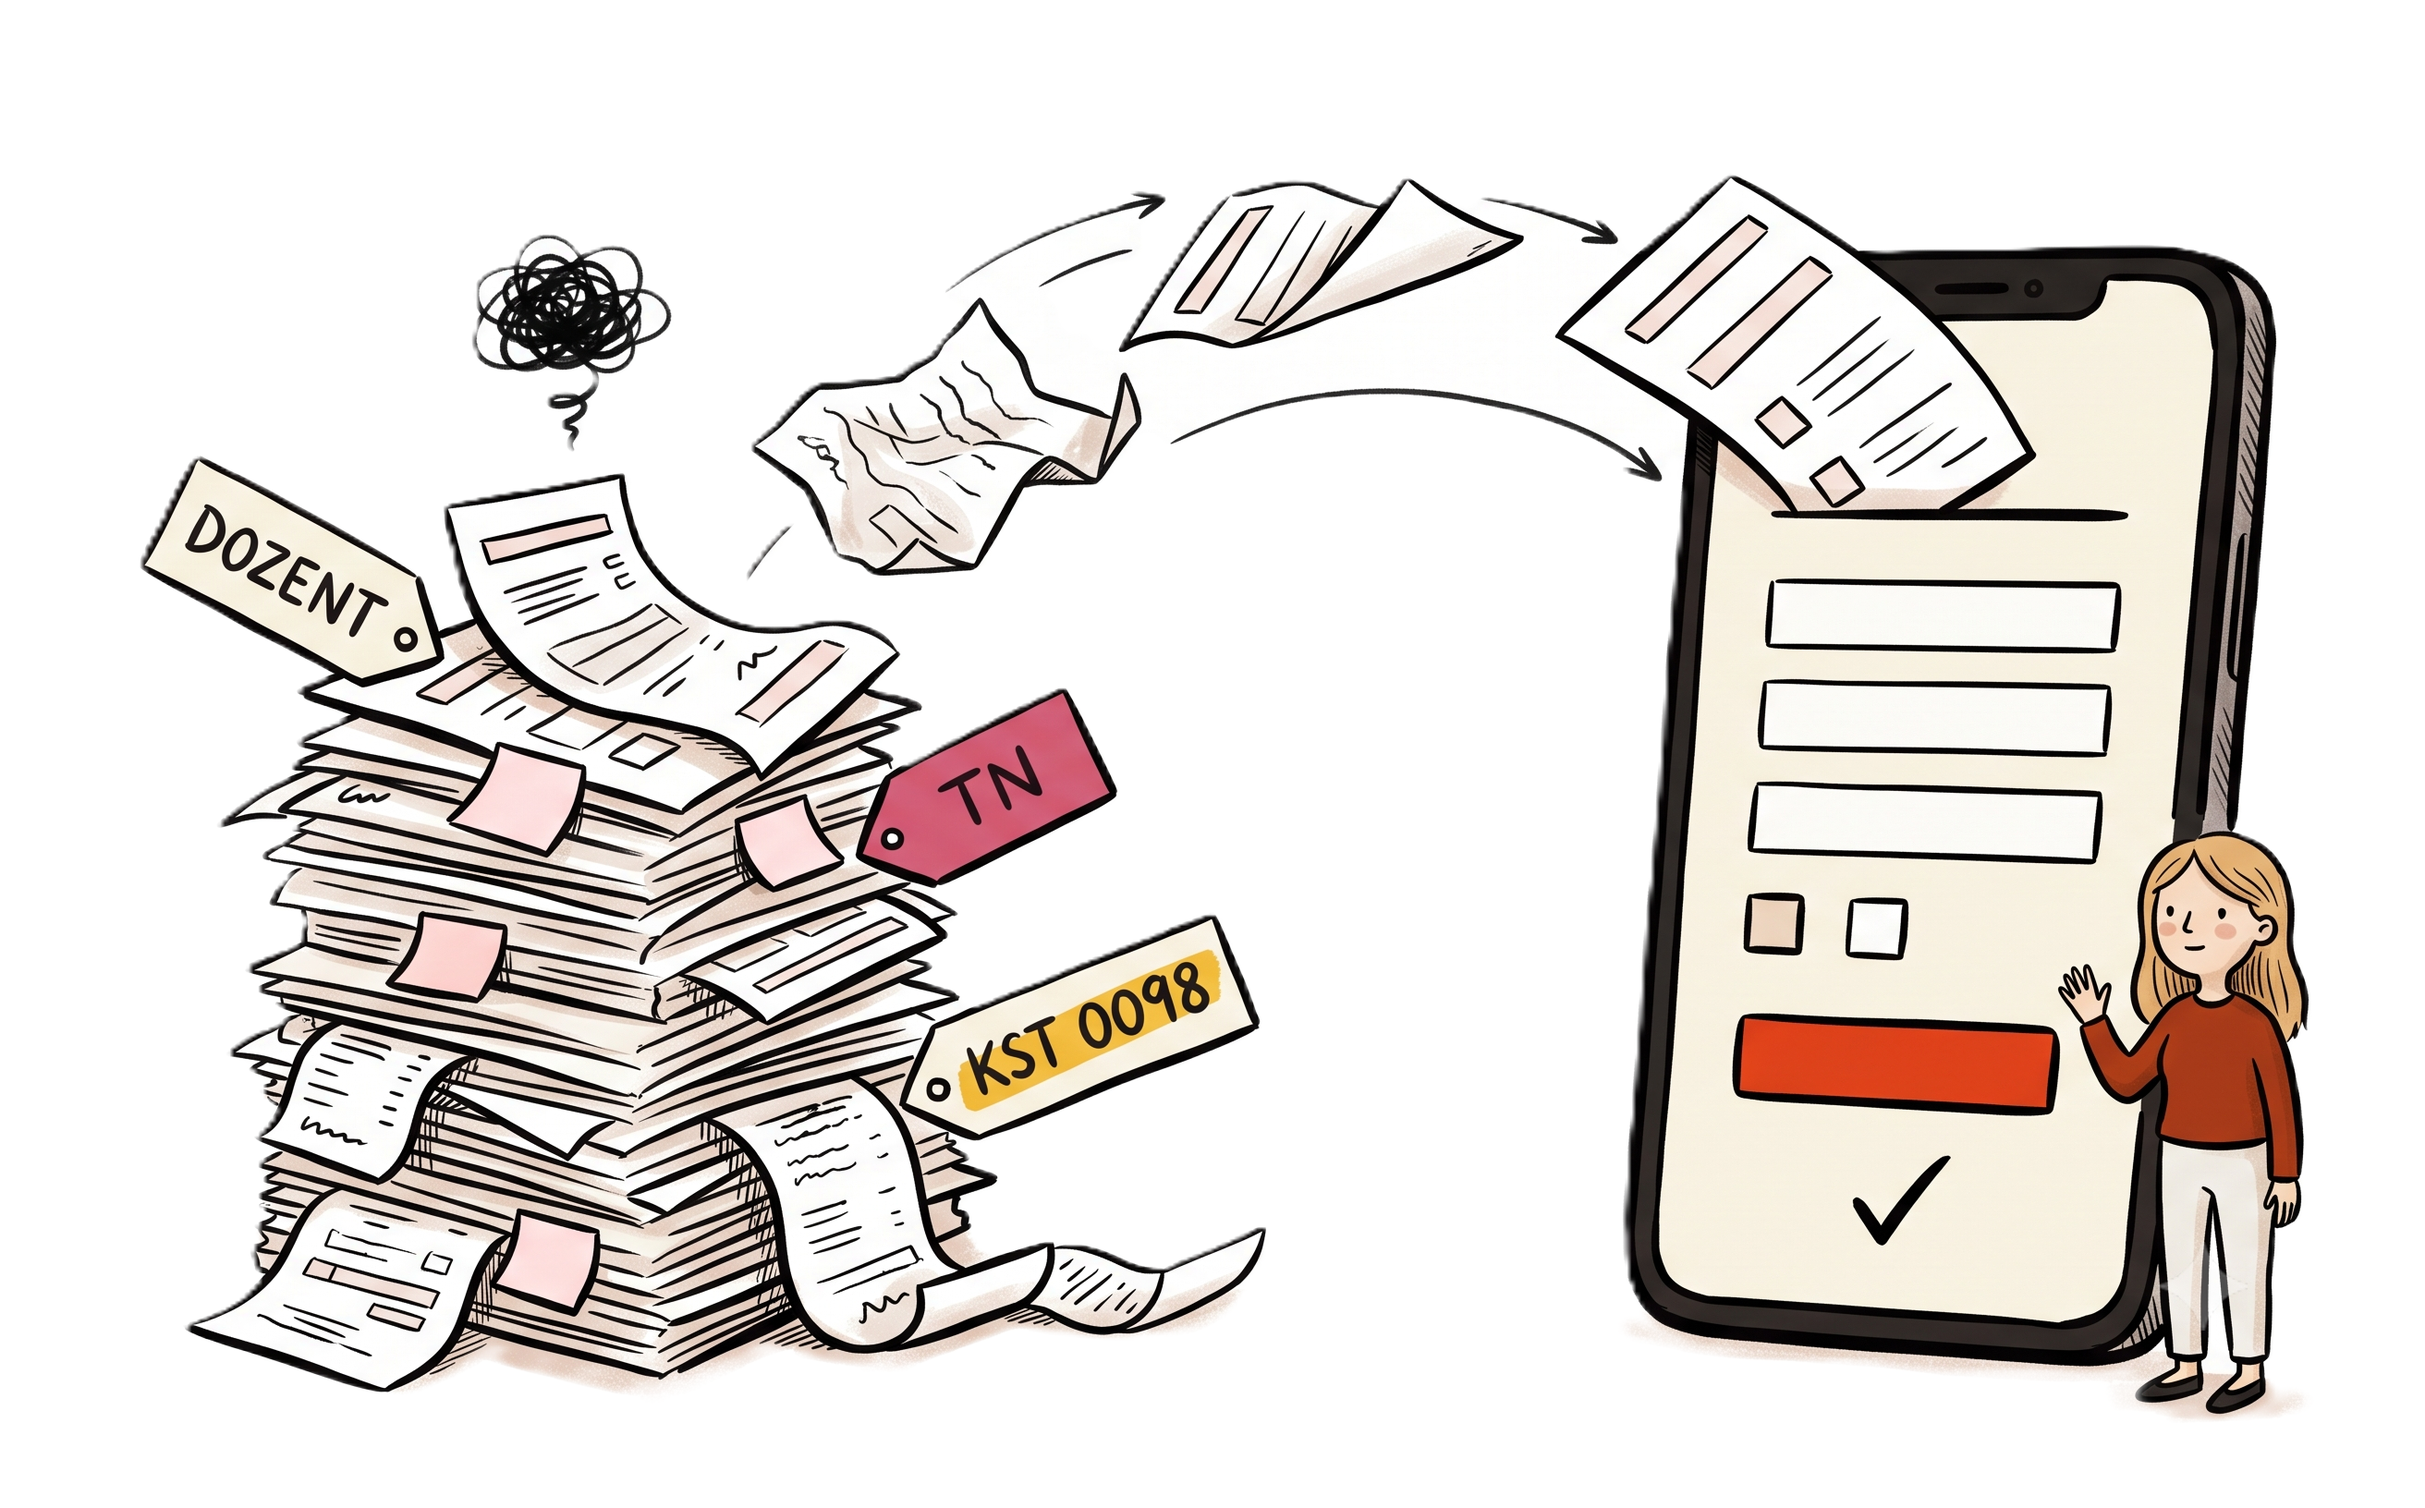
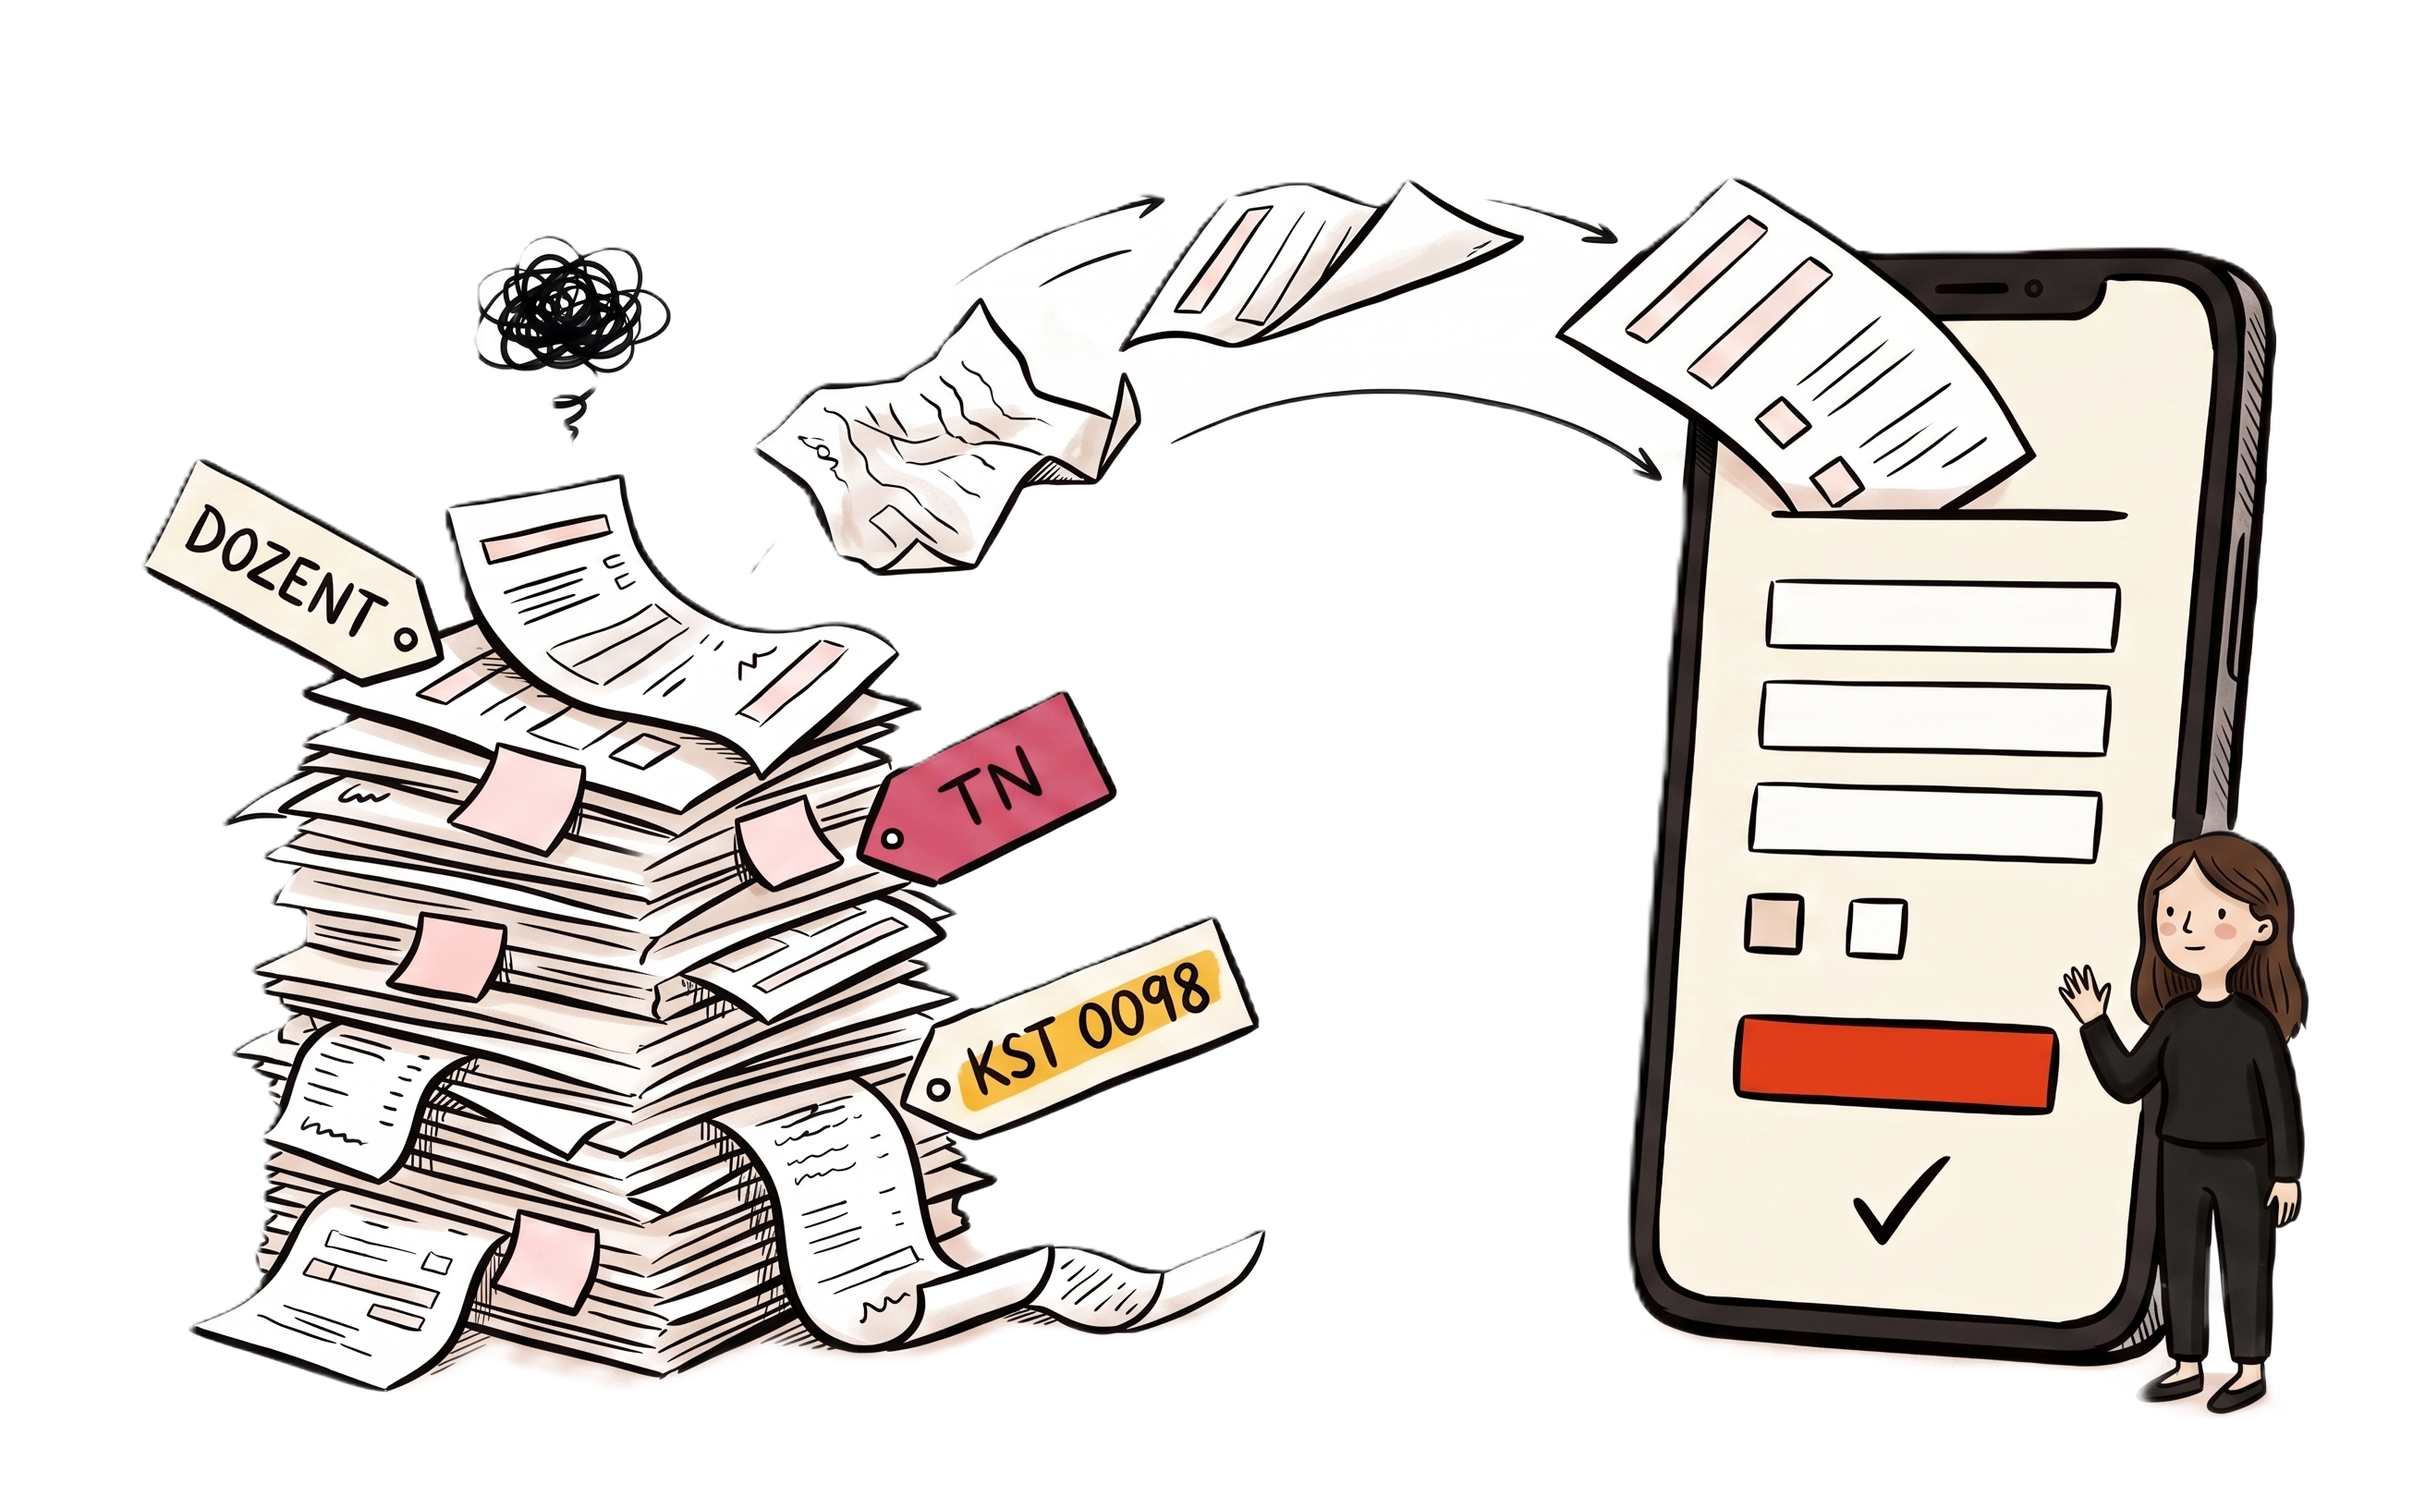
Update Project Thumbnails

diff --git a/src/projects/smart-home-control/card.js b/src/projects/smart-home-control/card.js
@@ -5,7 +5,7 @@
 // project documentation (team of 4). Evidence lock: every number on this
 // card exists in that documentation; nothing is extrapolated.
 import thumbnailImg from './media/v1/flow-map.jpg';
-import thumbnailWebp from './media/v1/flow-map.webp';
+import thumbnailWebp from './media/smarthome.webp';
 import cardSelectedHome from './media/v2/card-selected-home.webp';
 
 export default {
